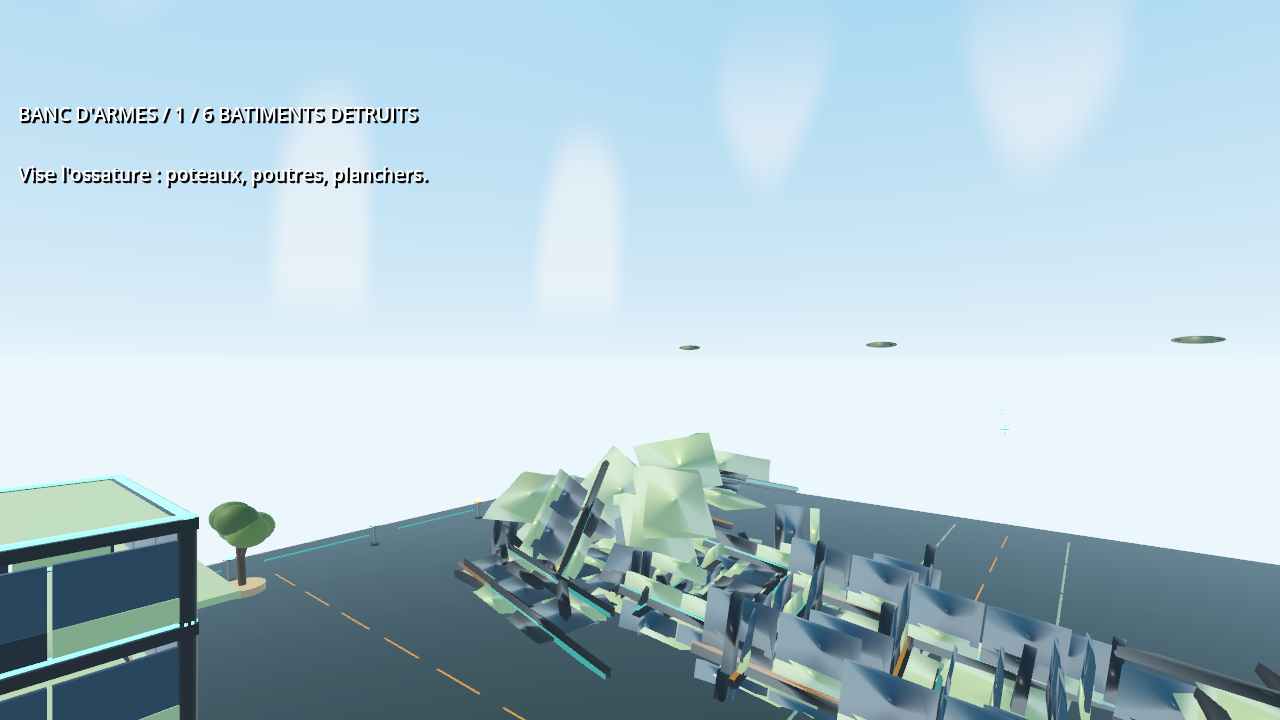
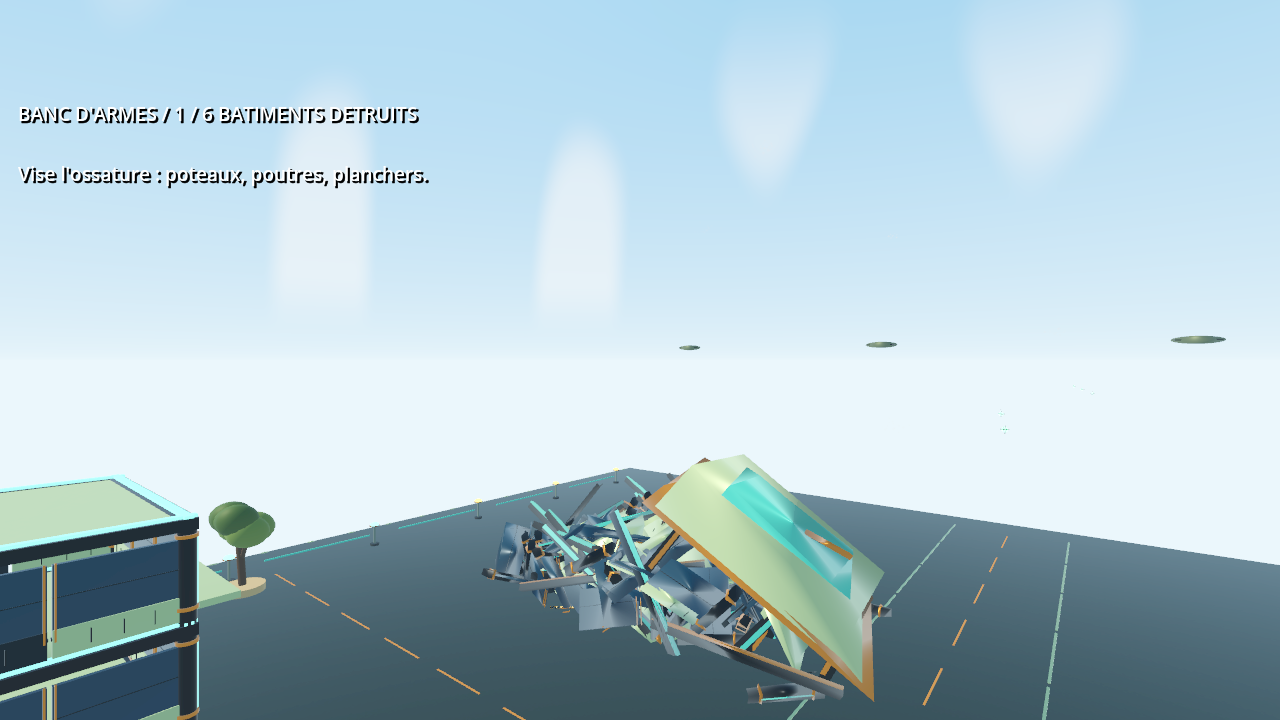
Publish Nebula VR downloads, cross-platform coop guide and update manifest

diff --git a/docs/index.html b/docs/index.html
@@ -12,20 +12,20 @@
 <main>
 <section class="hero" aria-labelledby="title">
   <div class="orbital" aria-hidden="true"></div>
-  <div class="hero-copy"><p class="eyebrow"><span class="status-dot"></span> PROTOTYPE JOUABLE · <span data-version>0.40.1</span></p><h1 id="title">L’espace est grand.<br>Partez <em>ensemble.</em></h1><p class="intro">Incarnez Nebula, un aventurier aux outils un peu démesurés. Docks suspendus, robots hostiles et sauts dans le vide : la prochaine expédition commence ici.</p><a class="primary" href="#telecharger">Choisir ma version <span aria-hidden="true">↓</span></a><div class="hero-specs"><span>Meta Quest 3 / 3S</span><span>Android</span><span>1 à 4 joueurs</span></div></div>
+  <div class="hero-copy"><p class="eyebrow"><span class="status-dot"></span> PROTOTYPE JOUABLE · <span data-version>0.41.0</span></p><h1 id="title">L’espace est grand.<br>Partez <em>ensemble.</em></h1><p class="intro">Incarnez Nebula, un aventurier aux outils un peu démesurés. Docks suspendus, robots hostiles et sauts dans le vide : la prochaine expédition commence ici.</p><a class="primary" href="#telecharger">Choisir ma version <span aria-hidden="true">↓</span></a><div class="hero-specs"><span>Meta Quest 3 / 3S</span><span>Android</span><span>1 à 4 joueurs</span></div></div>
   <figure class="hero-visual"><img src="assets/nebula.png" alt="Nebula dans le jeu, avec son blaster, ses grandes oreilles et son armure crème et verte" width="1280" height="720" fetchpriority="high"><figcaption><span>NEBULA / AURORA</span><span>Capture du prototype</span></figcaption></figure>
 </section>
-<section id="telecharger" class="downloads" aria-labelledby="downloads-title"><div class="section-heading"><div><p class="eyebrow">PRÊT POUR LE DÉPART ?</p><h2 id="downloads-title">Votre porte d’embarquement.</h2></div><span class="version-pill">Version <span data-version>0.40.1</span></span></div>
+<section id="telecharger" class="downloads" aria-labelledby="downloads-title"><div class="section-heading"><div><p class="eyebrow">PRÊT POUR LE DÉPART ?</p><h2 id="downloads-title">Votre porte d’embarquement.</h2></div><span class="version-pill">Version <span data-version>0.41.0</span></span></div>
   <div class="download-grid">
-    <article class="download-card"><div class="card-top"><span class="platform-icon" aria-hidden="true">◉</span><span class="platform-tag">IMMERSION</span></div><h3>Meta Quest</h3><p>Dans la peau de Nebula. Déplacement fluide, mains VR, lancers physiques et coups de crosse.</p><ul><li>Quest 3 et Quest 3S</li><li>APK ARM64 · installation manuelle</li><li>Solo et coop avec les joueurs Android</li></ul><a class="download primary" id="vr-download" href="https://github.com/tommyaudetcontact-wq/NebulaVR/releases/download/v0.40.1/Nebula-VR-Quest-0.40.1.apk">Télécharger l’APK Quest <span aria-hidden="true">↓</span></a><p class="file-meta" id="vr-size">Version 0.40.1</p></article>
-    <article class="download-card"><div class="card-top"><span class="platform-icon phone" aria-hidden="true">▯</span><span class="platform-tag">PARTOUT AVEC VOUS</span></div><h3>Android mobile</h3><p>La même aventure, sans casque. Commandes tactiles et caméra à la troisième personne, avec vue subjective au choix.</p><ul><li>Android 10 ou plus récent · ARM64</li><li>Écran en paysage</li><li>Rejoignez vos amis en VR ou sur mobile</li></ul><a class="download secondary" id="mobile-download" href="https://github.com/tommyaudetcontact-wq/NebulaVR/releases/download/v0.40.1/Nebula-Android-0.40.1.apk">Télécharger l’APK Android <span aria-hidden="true">↓</span></a><p class="file-meta" id="mobile-size">Version 0.40.1</p></article>
+    <article class="download-card"><div class="card-top"><span class="platform-icon" aria-hidden="true">◉</span><span class="platform-tag">IMMERSION</span></div><h3>Meta Quest</h3><p>Dans la peau de Nebula. Déplacement fluide, mains VR, lancers physiques et coups de crosse.</p><ul><li>Quest 3 et Quest 3S</li><li>APK ARM64 · installation manuelle</li><li>Solo et coop avec les joueurs Android</li></ul><a class="download primary" id="vr-download" href="https://github.com/tommyaudetcontact-wq/NebulaVR/releases/download/v0.41.0/Nebula-VR-Quest-0.41.0.apk">Télécharger l’APK Quest <span aria-hidden="true">↓</span></a><p class="file-meta" id="vr-size">Version 0.41.0</p></article>
+    <article class="download-card"><div class="card-top"><span class="platform-icon phone" aria-hidden="true">▯</span><span class="platform-tag">PARTOUT AVEC VOUS</span></div><h3>Android mobile</h3><p>La même aventure, sans casque. Commandes tactiles et caméra à la troisième personne, avec vue subjective au choix.</p><ul><li>Android 10 ou plus récent · ARM64</li><li>Écran en paysage</li><li>Rejoignez vos amis en VR ou sur mobile</li></ul><a class="download secondary" id="mobile-download" href="https://github.com/tommyaudetcontact-wq/NebulaVR/releases/download/v0.41.0/Nebula-Android-0.41.0.apk">Télécharger l’APK Android <span aria-hidden="true">↓</span></a><p class="file-meta" id="mobile-size">Version 0.41.0</p></article>
   </div><p class="download-note">Version de développement : des bugs et des ajustements sont encore à prévoir. Les APK vérifient au lancement si une mise à jour est disponible sur ce dépôt; son installation reste manuelle.</p>
 </section>
 <section id="univers" class="world" aria-labelledby="world-title"><div class="section-heading"><div><p class="eyebrow">UN MONDE AU-DESSUS DU VIDE</p><h2 id="world-title">Deux façons de partir à l’aventure.</h2></div></div><div class="world-grid"><figure><img src="assets/aurora.png" alt="Des accroches lumineuses de grappin entre les plateformes suspendues d’Aurora" width="1280" height="720" loading="lazy"><figcaption>Les passages au grappin d’Aurora · capture du jeu</figcaption></figure><div class="modes"><article><span class="number">01</span><div><h3>Niveau 1 — Aurora</h3><p>Retrouvez le parcours construit à la main : neuf secteurs, des robots à affronter, des plateformes et des enchaînements au grappin.</p></div></article><article><span class="number">∞</span><div><h3>Expédition procédurale</h3><p>Choisissez une expédition courte, standard ou longue. Une graine commune organise les secteurs, les hauteurs, les rencontres et les passages au grappin pour toute l’équipe.</p></div></article></div></div></section>
-<section class="installation" id="demolition" aria-labelledby="demo-title"><p class="eyebrow">NOUVEAU / BANC D’ARMES</p><h2 id="demo-title">Six structures à faire tomber.</h2><p>Un quartier de test inspiré de notre Heliopolis : atelier, hangar, centre de transit, relais et deux grandes tours. Ouvre les façades, coupe les appuis et regarde les sections privées de soutien s’effondrer. Le test se termine à six bâtiments détruits, en solo ou en coop.</p><img src="assets/demolition-rue.png" alt="Capture réelle du quartier de test avec ses deux grandes tours" loading="lazy" style="width:100%;border-radius:18px;margin:24px 0;max-height:560px;object-fit:cover"><p>Choisis « Banc d’armes / démolition » dans le menu. Cette première simulation utilise un modèle de soutien simplifié et un budget de débris adapté au mobile. Les 72 fps sur Quest restent à mesurer.</p></section>
-<section class="installation" id="arene" aria-labelledby="arena-title"><p class="eyebrow">NOUVEAU / VALLEE SYLVESTRE</p><h2 id="arena-title">Rouge contre bleu.</h2><p>Match par équipes ou capture du drapeau. Jusqu’à quatre joueurs Quest et Android, avec zéro à six bots Nebula. Deux bases, une vallée boisée et futuriste, un rover et un appareil volant par équipe.</p><img src="assets/arena-vallee.png" alt="Capture réelle de l’arène : deux bases dans une vallée rocheuse boisée" loading="lazy" style="width:100%;border-radius:18px;margin:24px 0;max-height:560px;object-fit:cover"><p>Choisissez Arène / équipes ou Arène / drapeaux, puis le nombre de bots avant de lancer. Dans un véhicule : joystick pour piloter, tir pour le canon; saut pour monter et crosse pour descendre en vol. Version 0.39 requise sur tous les appareils.</p></section>
-<section id="coop" class="coop" aria-labelledby="coop-title"><div><p class="eyebrow">UN HÔTE. JUSQU’À TROIS AMIS.</p><h2 id="coop-title">Casque ou téléphone,<br>la même équipe.</h2><p>Les positions, le corps, les mains et l’arme de chaque Nebula sont partagés, ainsi que le lancer du chargeur du shockwave. Les joueurs mobiles peuvent voir les gestes des joueurs VR; l’hôte conserve l’état des ennemis et les dégâts.</p></div><ol><li><span>1</span><div><h3>Retrouvez les joueurs</h3><p>La liste JOUEURS se rafraîchit automatiquement. Invitez une personne présente, ou créez une partie publique visible dans PARTIES.</p></div></li><li><span>2</span><div><h3>Rejoignez l’équipe</h3><p>Acceptez une invitation ou rejoignez une partie publique, même déjà commencée. Jusqu’à quatre joueurs Quest et Android, tous en version 0.40.1.</p></div></li><li><span>3</span><div><h3>Gardez votre groupe</h3><p>L’hôte lance la partie quand le groupe est prêt. Pendant le jeu : Y gauche en VR ou bouton pause sur mobile pour inviter, régler musique et bruitages, ou revenir au salon avec le groupe.</p></div></li></ol><aside>La connexion Internet directe dépend du routeur. La découverte est automatique; UPnP tente de rendre le salon joignable. Un salon non joignable est signalé dans la liste. Les réseaux derrière un CGNAT peuvent bloquer la connexion : cette version n’intègre pas de relais. La coop a été testée sur quatre instances locales; la validation entre appareils et réseaux distincts reste à faire.</aside></section>
-<section class="installation" aria-labelledby="install-title"><p class="eyebrow">BIEN DÉMARRER</p><h2 id="install-title">Installer le prototype.</h2><div class="install-grid"><details><summary>Sur Meta Quest</summary><p>Téléchargez l’APK Quest sur un ordinateur. Avec le mode développeur activé sur votre casque, installez-le par SideQuest ou avec <code>adb install -r Nebula-VR-Quest-0.40.1.apk</code>. Lancez ensuite « Nebula VR » dans les sources inconnues. La mise à jour conserve l’identifiant de l’ancien prototype Quest.</p></details><details><summary>Sur Android</summary><p>Ouvrez l’APK Android sur votre téléphone et autorisez son installation depuis votre navigateur si Android le demande. Lancez « Nebula VR Mobile » en paysage. Le joystick gauche déplace Nebula; glissez au centre droit pour regarder. Les boutons servent à tirer, sauter, frapper, changer d’arme, recharger, aspirer et utiliser le grappin.</p></details><details><summary>Mises à jour intégrées</summary><p>À partir de la 0.38, l’appli vérifie les nouvelles versions puis télécharge et contrôle l’APK automatiquement au menu, hors partie et groupe. Android ou Quest peuvent demander d’autoriser Nebula à installer ses mises à jour et de confirmer l’installation. Aucun navigateur n’est nécessaire. Une partie en cours continue normalement. Installez la 0.40 manuellement une dernière fois pour activer ce système.</p></details></div></section>
+<section class="installation" id="demolition" aria-labelledby="demo-title"><p class="eyebrow">NOUVEAU / BANC D’ARMES</p><h2 id="demo-title">Six structures à faire tomber.</h2><p>Un quartier de test inspiré de notre Heliopolis : atelier, hangar, centre de transit, relais et deux grandes tours. Ouvre les façades, coupe les appuis et regarde les sections privées de soutien s’effondrer. Le test se termine à six bâtiments détruits, en solo ou en coop.</p><img src="assets/demolition-rue.png" alt="Capture réelle du quartier de test avec ses deux grandes tours" loading="lazy" style="width:100%;border-radius:18px;margin:24px 0;max-height:560px;object-fit:cover"><p>Choisis « Banc d’armes / démolition » dans le menu. Les façades détaillées se détachent en sections articulées, puis les joints cèdent et les débris rebondissent. Le soutien et les débris gardent un budget de simulation adapté au mobile. Les 72 fps sur Quest restent à mesurer.</p></section>
+<section class="installation" id="arene" aria-labelledby="arena-title"><p class="eyebrow">NOUVEAU / VALLEE SYLVESTRE</p><h2 id="arena-title">Rouge contre bleu.</h2><p>Match par équipes ou capture du drapeau. Jusqu’à quatre joueurs Quest et Android, avec zéro à six bots Nebula. Deux bases, une vallée boisée et futuriste, une rivière et ses ponts, des arbres à larges couronnes, un rover et un appareil volant par équipe.</p><img src="assets/arena-vallee.png" alt="Capture réelle de l’arène : deux bases dans une vallée rocheuse boisée" loading="lazy" style="width:100%;border-radius:18px;margin:24px 0;max-height:560px;object-fit:cover"><p>Choisissez Arène / équipes ou Arène / drapeaux, puis le nombre de bots avant de lancer. Le rover accueille un conducteur et un tireur de tourelle, humains ou bots. X gauche en VR / EMBARQUER sur mobile : entrer ou sortir. Hors véhicule, X / ALLIE appelle un compagnon. En vol : saut pour monter et crosse pour descendre. Version 0.41.0 requise sur tous les appareils.</p></section>
+<section id="coop" class="coop" aria-labelledby="coop-title"><div><p class="eyebrow">UN HÔTE. JUSQU’À TROIS AMIS.</p><h2 id="coop-title">Casque ou téléphone,<br>la même équipe.</h2><p>Les positions, le corps, les mains et l’arme de chaque Nebula sont partagés, ainsi que le lancer du chargeur du shockwave. Les joueurs mobiles peuvent voir les gestes des joueurs VR; l’hôte conserve l’état des ennemis et les dégâts.</p></div><ol><li><span>1</span><div><h3>Retrouvez les joueurs</h3><p>La liste JOUEURS se rafraîchit automatiquement. Invitez une personne présente, ou créez une partie publique visible dans PARTIES.</p></div></li><li><span>2</span><div><h3>Rejoignez l’équipe</h3><p>Acceptez une invitation ou rejoignez une partie publique, même déjà commencée. Jusqu’à quatre joueurs Quest et Android, tous en version 0.41.0.</p></div></li><li><span>3</span><div><h3>Gardez votre groupe</h3><p>L’hôte lance la partie quand le groupe est prêt. Pendant le jeu : Y gauche en VR ou bouton pause sur mobile pour inviter, régler musique et bruitages, ou revenir au salon avec le groupe.</p></div></li></ol><aside>La connexion Internet directe dépend du routeur. La découverte est automatique; UPnP tente de rendre le salon joignable. Un salon non joignable est signalé dans la liste. Les réseaux derrière un CGNAT peuvent bloquer la connexion : cette version n’intègre pas de relais. La coop a été testée sur quatre instances locales; la validation entre appareils et réseaux distincts reste à faire.</aside></section>
+<section class="installation" aria-labelledby="install-title"><p class="eyebrow">BIEN DÉMARRER</p><h2 id="install-title">Installer le prototype.</h2><div class="install-grid"><details><summary>Sur Meta Quest</summary><p>Téléchargez l’APK Quest sur un ordinateur. Avec le mode développeur activé sur votre casque, installez-le par SideQuest ou avec <code>adb install -r Nebula-VR-Quest-0.41.0.apk</code>. Lancez ensuite « Nebula VR » dans les sources inconnues. La mise à jour conserve l’identifiant de l’ancien prototype Quest.</p></details><details><summary>Sur Android</summary><p>Ouvrez l’APK Android sur votre téléphone et autorisez son installation depuis votre navigateur si Android le demande. Lancez « Nebula VR Mobile » en paysage. Le joystick gauche déplace Nebula; glissez au centre droit pour regarder. Les boutons servent à tirer, sauter, frapper, changer d’arme, recharger, aspirer et utiliser le grappin.</p></details><details><summary>Mises à jour intégrées</summary><p>À partir de la 0.38, l’appli vérifie les nouvelles versions puis télécharge et contrôle l’APK automatiquement au menu, hors partie et groupe. Android ou Quest peuvent demander d’autoriser Nebula à installer ses mises à jour et de confirmer l’installation. Aucun navigateur n’est nécessaire. Une partie en cours continue normalement. Installez la 0.40 manuellement une dernière fois pour activer ce système.</p></details></div></section>
 </main>
 <footer><a class="brand" href="#"><span class="mark">N</span> NEBULA<span class="vr">VR</span></a><span>Une aventure en construction.</span><a href="https://github.com/tommyaudetcontact-wq/NebulaVR/releases">Versions & notes ↗</a></footer>
 <script src="app.js"></script>

diff --git a/README.md b/README.md
@@ -256,3 +256,18 @@ Validation : regles et effondrement des six cibles, tirs d un invite, quatre ins
 ### 0.40.1
 
 Le plasma du blaster s arrete sur la surface destructible touchee, en local et chez les autres joueurs. Modes et protocole 37 conserves.
+
+
+### 0.41.0
+
+Nebula VR 0.41.0 — Vallée sylvestre et destruction articulée
+
+- Arène refaite : relief végétal, rivière, ponts, arbres à larges couronnes, fougères, falaises ocres et refuges industriels arrondis. Référence visuelle : Novalis PS2 (https://www.youtube.com/watch?v=OK0CJgQEKM0), avec modèles originaux pour Nebula.
+- Rover et appareil volant reconstruits dans la palette ivoire/olive/laiton de Nebula. Roues détaillées, garde-boue, arceau, cockpit, réacteurs et tourelle plasma orientable.
+- Rover à deux places indépendantes : conducteur et tireur. Joueurs et bots peuvent occuper chaque poste, y compris un équipage mixte. X gauche / E ou EMBARQUER sur mobile près d'une place libre; même commande pour sortir. Une place tenue par un bot allié peut être reprise par un joueur.
+- Les bots choisissent des places libres, conduisent sur le graphe de navigation, se dégagent en marche arrière et visent avec la tourelle. Hors véhicule, X/E/ALLIE appelle un bot ami pour accompagner le joueur.
+- Démolition : façades plus détaillées, sections d'étages reliées par joints physiques, rupture sous contrainte, fragmentation à l'impact, inertie et rebonds des débris, poussière 3D et sons originaux de structure/impact.
+- Budget borné à 64 corps dynamiques et 360 groupes de gravats; les morceaux supplémentaires utilisent une trajectoire balistique simplifiée. La destruction est une simulation modulaire, pas le moteur Geo-Mod.
+- Deux sièges, visée de tourelle, dégâts et destruction synchronisés. Protocole 38 : mettre tous les appareils en 0.41.0 pour jouer ensemble.
+
+Validation : règles arène/démolition, embarquement autonome, conduite et tir IA, poste de tireur d'un invité réseau, quatre instances natives et arrivée tardive en démolition. Captures natives inspectées. Les 72 fps soutenus dans un Quest porté restent à mesurer; aucune réduction de résolution ajoutée. Connexion P2P Internet dépendante du routeur, sans relais CGNAT.
